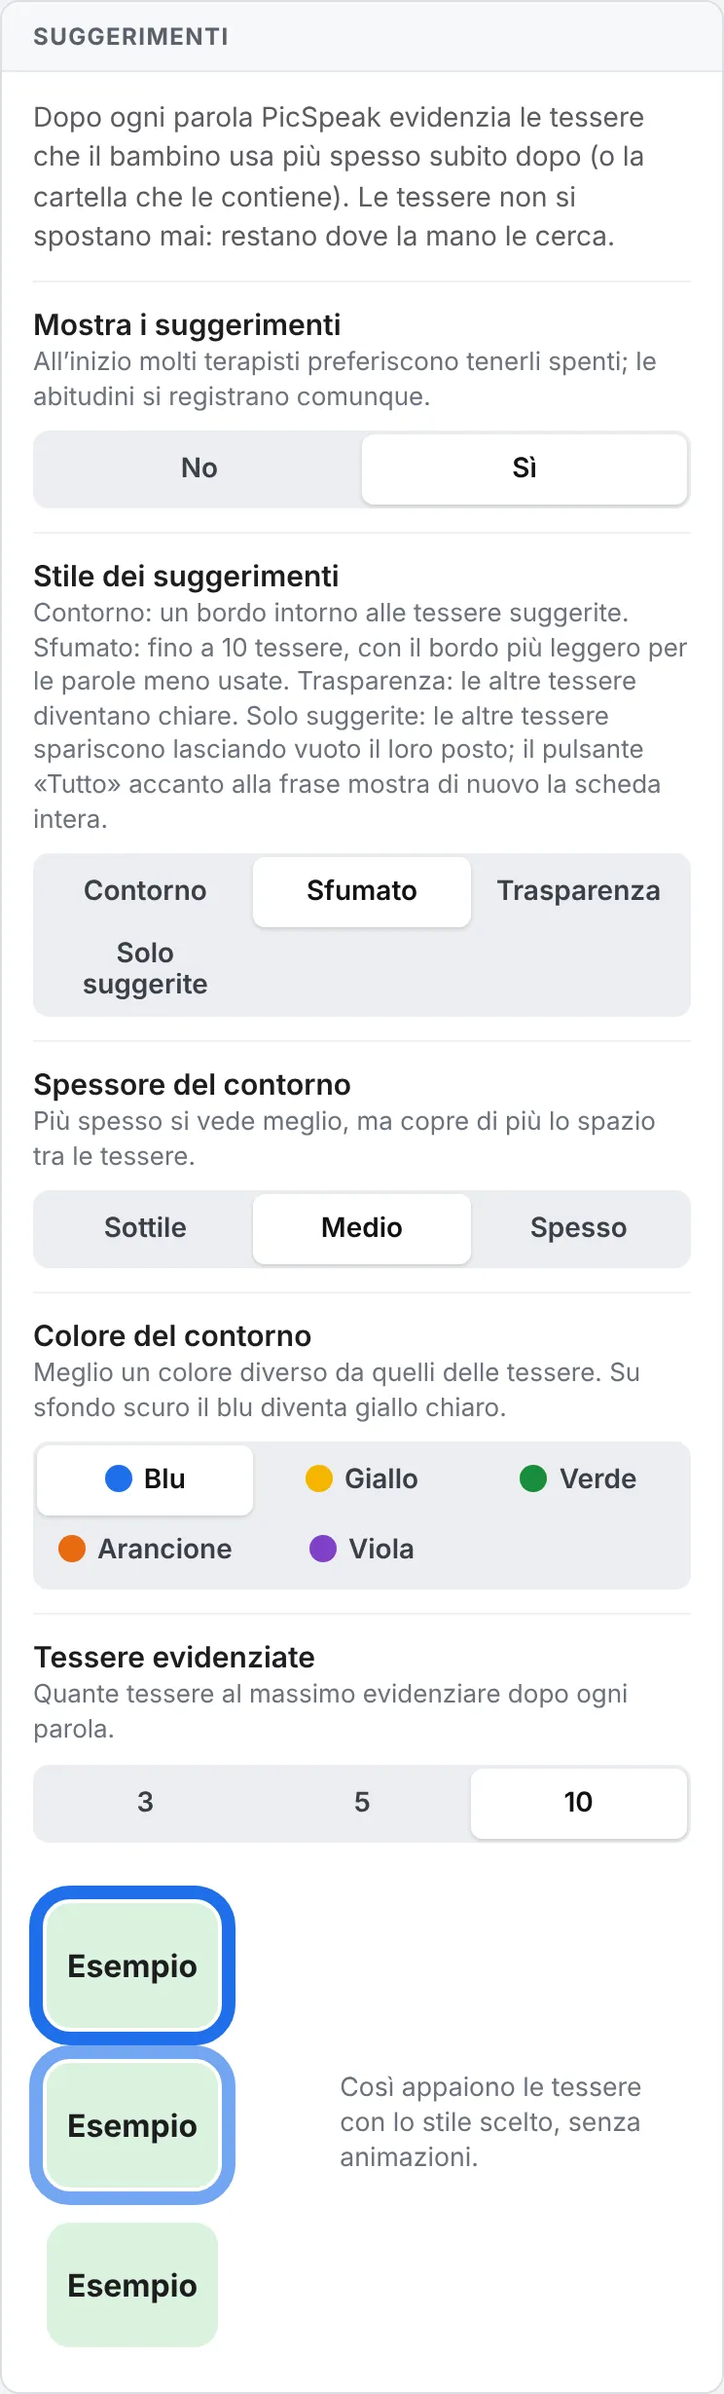
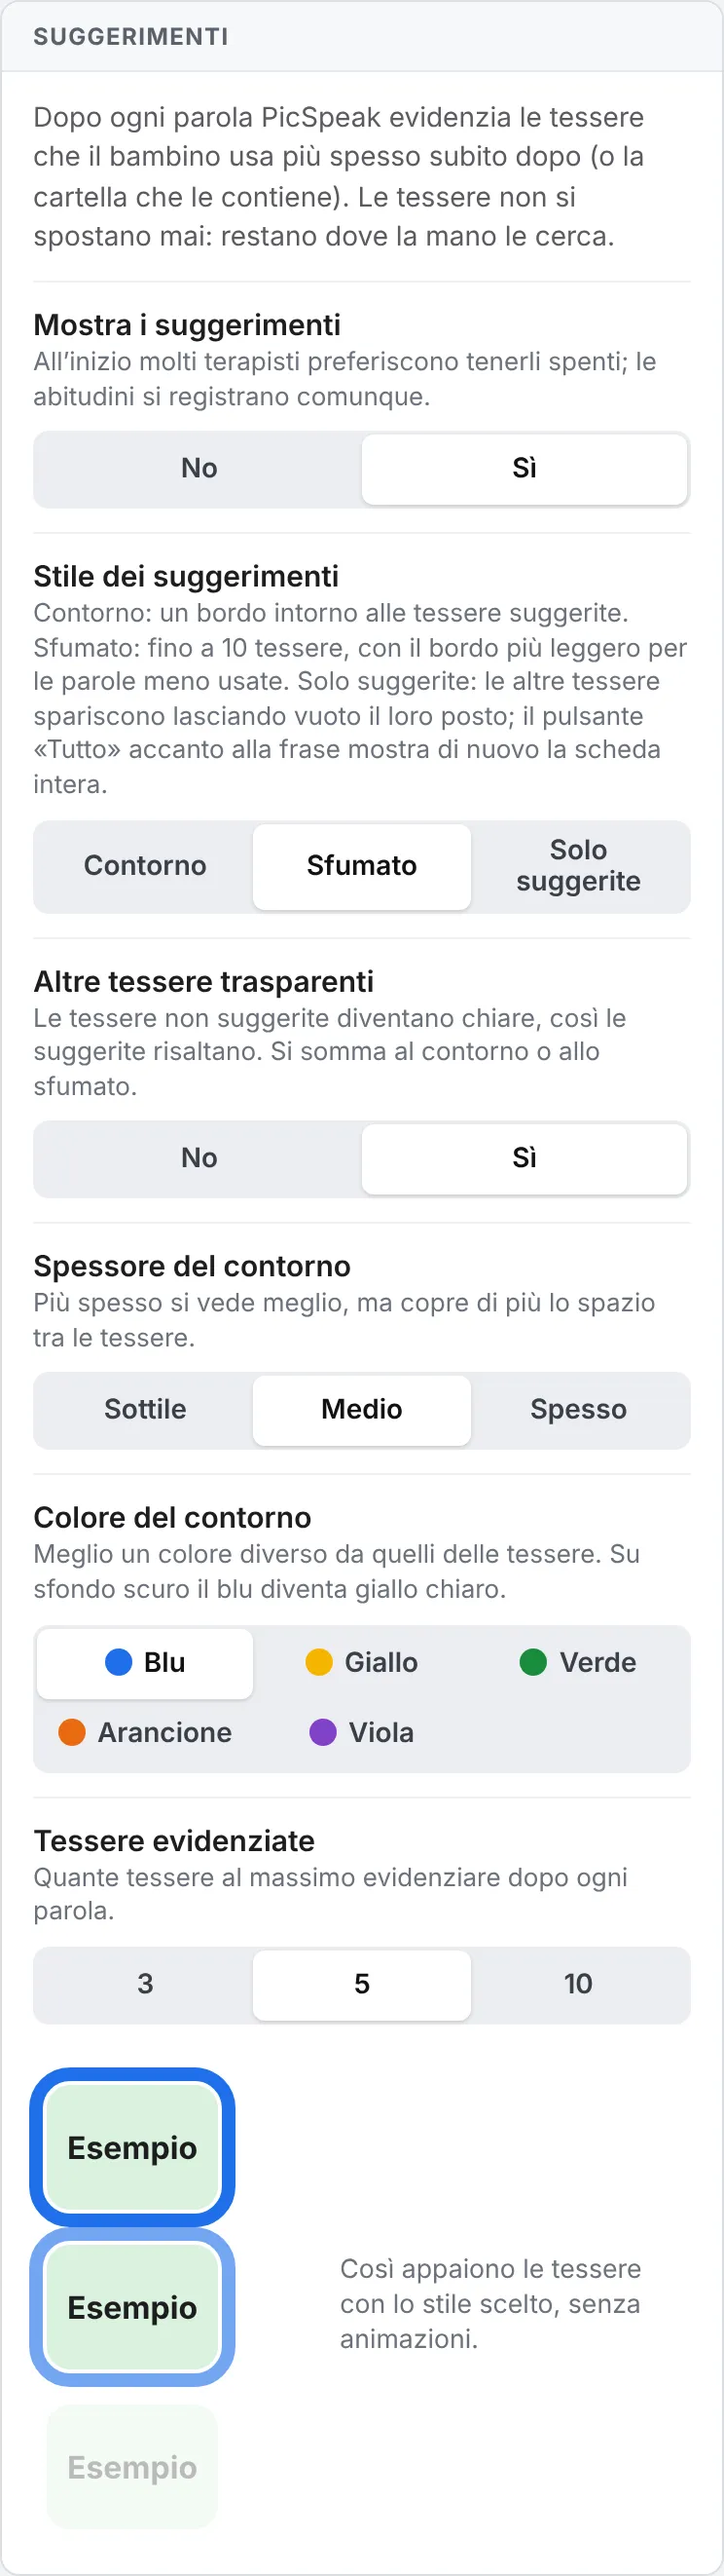
feat: trasparenza delle altre tessere combinabile con contorno e sfumato

diff --git a/guida.html b/guida.html
@@ -589,6 +589,8 @@
       <ol class="steps">
         <li>Mettete <strong>Mostra i suggerimenti</strong> su <strong>Sì</strong> (all’inizio è spento).</li>
         <li>In <strong>Stile dei suggerimenti</strong> scegliete come mostrarli (vedi sotto).</li>
+        <li>Con <strong>Altre tessere trasparenti</strong> su <strong>Sì</strong> le tessere non suggerite diventano chiare:
+          si può aggiungere al contorno o allo sfumato, e gli effetti si sommano.</li>
         <li>In <strong>Spessore del contorno</strong> e <strong>Colore del contorno</strong> regolate il bordo: più spesso
           si vede meglio; scegliete un colore diverso da quelli delle tessere.</li>
         <li>In <strong>Tessere evidenziate</strong> scegliete quante: da 1 a 3 con il contorno semplice, 3, 5 o 10 con gli
@@ -597,7 +599,7 @@
           una sequenza è stata usata almeno un paio di volte di recente.</li>
       </ol>
       <figure class="shot shot-narrow">
-        <img src="guida/impostazioni-previsione.webp" width="744" height="2458" alt="La sezione Suggerimenti: Mostra i suggerimenti, Stile dei suggerimenti (Contorno, Sfumato, Trasparenza, Solo suggerite), spessore e colore del contorno, numero di tessere e tre tessere di esempio con il bordo sempre più leggero." loading="lazy">
+        <img src="guida/impostazioni-previsione.webp" width="744" height="2644" alt="La sezione Suggerimenti: Mostra i suggerimenti, Stile dei suggerimenti (Contorno, Sfumato, Solo suggerite), Altre tessere trasparenti, spessore e colore del contorno, numero di tessere e tre tessere di esempio con il bordo sempre più leggero." loading="lazy">
       </figure>
       <table class="map">
         <caption>Gli stili dei suggerimenti</caption>
@@ -605,14 +607,20 @@
           <tr><th scope="row">Contorno</th><td>un bordo intorno alle tessere suggerite (da 1 a 3).</td></tr>
           <tr><th scope="row">Sfumato</th><td>fino a 10 tessere: il bordo è più deciso per le parole usate più spesso e
             più leggero per le altre, così disturba meno.</td></tr>
-          <tr><th scope="row">Trasparenza</th><td>le tessere suggerite hanno il bordo, tutte le altre diventano chiare
-            ma restano al loro posto e si possono toccare.</td></tr>
           <tr><th scope="row">Solo suggerite</th><td>si vedono solo le tessere suggerite; le altre spariscono ma lasciano
             vuoto il loro posto, quindi nessuna tessera si sposta né cambia misura. Il pulsante <strong>Tutto</strong>
             accanto alla frase mostra di nuovo la scheda intera fino alla parola successiva. Se non ci sono suggerimenti
             abbastanza sicuri, la scheda resta intera.</td></tr>
         </tbody>
       </table>
+      <p>Con <strong>Altre tessere trasparenti</strong> le tessere non suggerite diventano chiare ma restano al loro posto
+        e si possono toccare. Insieme allo <strong>Sfumato</strong> le parole più probabili risaltano di più e le altre
+        restano comunque a portata di mano.</p>
+      <figure class="shot">
+        <img src="guida/sfumato-trasparenza.webp" width="1180" height="820" alt="Sfumato con altre tessere trasparenti: dopo «io voglio» Mangiare, Bere e Giocare hanno il bordo, più deciso per Mangiare; le altre tessere sono chiare." loading="lazy">
+        <figcaption>«Sfumato» con <strong>Altre tessere trasparenti</strong>: il bordo è più deciso per la parola più
+          probabile e le tessere non suggerite sono chiare.</figcaption>
+      </figure>
       <figure class="shot">
         <img src="guida/solo-suggerite.webp" width="1180" height="820" alt="Stile Solo suggerite: dopo «io voglio» restano visibili solo Mangiare, Bere e Giocare, al loro solito posto; in alto a destra il pulsante Tutto." loading="lazy">
         <figcaption>«Solo suggerite»: dopo «io voglio» restano <strong>Mangiare</strong>, <strong>Bere</strong> e

diff --git a/js/i18n.js b/js/i18n.js
@@ -405,8 +405,9 @@
       optSuggestCount: 'Tessere evidenziate', optSuggestCountHelp: 'Quante tessere al massimo evidenziare dopo ogni parola.',
       val1: '1', val2: '2', val3: '3', val5: '5', val10: '10',
       optSuggestStyle: 'Stile dei suggerimenti',
-      optSuggestStyleHelp: 'Contorno: un bordo intorno alle tessere suggerite. Sfumato: fino a 10 tessere, con il bordo più leggero per le parole meno usate. Trasparenza: le altre tessere diventano chiare. Solo suggerite: le altre tessere spariscono lasciando vuoto il loro posto; il pulsante «Tutto» accanto alla frase mostra di nuovo la scheda intera.',
-      styleOutline: 'Contorno', styleGraded: 'Sfumato', styleFade: 'Trasparenza', styleOnly: 'Solo suggerite',
+      optSuggestStyleHelp: 'Contorno: un bordo intorno alle tessere suggerite. Sfumato: fino a 10 tessere, con il bordo più leggero per le parole meno usate. Solo suggerite: le altre tessere spariscono lasciando vuoto il loro posto; il pulsante «Tutto» accanto alla frase mostra di nuovo la scheda intera.',
+      styleOutline: 'Contorno', styleGraded: 'Sfumato', styleOnly: 'Solo suggerite',
+      optSuggestDim: 'Altre tessere trasparenti', optSuggestDimHelp: 'Le tessere non suggerite diventano chiare, così le suggerite risaltano. Si somma al contorno o allo sfumato.',
       showAllTiles: 'Mostra tutte le tessere', showAllShort: 'Tutto',
       optSuggestWidth: 'Spessore del contorno', optSuggestWidthHelp: 'Più spesso si vede meglio, ma copre di più lo spazio tra le tessere.',
       widthThin: 'Sottile', widthMedium: 'Medio', widthThick: 'Spesso',
@@ -933,8 +934,9 @@
       optSuggestCount: 'Highlighted tiles', optSuggestCountHelp: 'How many tiles at most to highlight after each word.',
       val1: '1', val2: '2', val3: '3', val5: '5', val10: '10',
       optSuggestStyle: 'Suggestion style',
-      optSuggestStyleHelp: 'Outline: a border around suggested tiles. Graded: up to 10 tiles, with a lighter border for less used words. Transparency: the other tiles become pale. Suggested only: the other tiles disappear leaving their place empty; the “All” button next to the sentence shows the whole board again.',
-      styleOutline: 'Outline', styleGraded: 'Graded', styleFade: 'Transparency', styleOnly: 'Suggested only',
+      optSuggestStyleHelp: 'Outline: a border around suggested tiles. Graded: up to 10 tiles, with a lighter border for less used words. Suggested only: the other tiles disappear leaving their place empty; the “All” button next to the sentence shows the whole board again.',
+      styleOutline: 'Outline', styleGraded: 'Graded', styleOnly: 'Suggested only',
+      optSuggestDim: 'Other tiles transparent', optSuggestDimHelp: 'Tiles that are not suggested become pale, so the suggested ones stand out. Adds to the outline or graded style.',
       showAllTiles: 'Show all tiles', showAllShort: 'All',
       optSuggestWidth: 'Outline thickness', optSuggestWidthHelp: 'Thicker is easier to see but covers more of the space between tiles.',
       widthThin: 'Thin', widthMedium: 'Medium', widthThick: 'Thick',

diff --git a/js/app.js b/js/app.js
@@ -282,8 +282,9 @@
 
   /*
    * Stili: «outline» contorno; «graded» contorno sempre più tenue per le parole meno frequenti;
-   * «fade» contorno e tessere non suggerite trasparenti; «only» si vedono solo le suggerite (le altre lasciano
-   * vuoto il loro posto, così nessuna tessera si sposta) con il pulsante «Mostra tutto» per tornare alla scheda intera.
+   * «only» si vedono solo le suggerite (le altre lasciano vuoto il loro posto, così nessuna tessera si sposta)
+   * con il pulsante «Mostra tutto» per tornare alla scheda intera.
+   * L'interruttore «dim» (contorno o sfumato) rende trasparenti le tessere non suggerite: gli effetti si sommano.
    */
   function applySuggestions() {
     el.grid.querySelectorAll('.symbol-cell').forEach((node) => {
@@ -299,7 +300,7 @@
     const prevItem = state.sentence[state.sentence.length - 1] || null;
     const list = predict.candidates(prevItem);
     if (!list.length) return;
-    const { style } = predict.settings;
+    const { style, dim } = predict.settings;
     // Il contorno semplice resta al massimo a 3 tessere; gli altri stili arrivano fino a 10
     const max = style === 'outline' ? Math.min(predict.settings.count, 3) : predict.settings.count;
     const visible = data.orderedCells(page).filter((c) => c.kind !== 'empty');
@@ -319,7 +320,7 @@
         node.classList.add('is-suggested');
         // Sfumato: 1 per la parola più frequente, fino a 0,25 per le meno frequenti
         if (style === 'graded') node.style.setProperty('--suggest-alpha', (0.25 + 0.75 * (score / top)).toFixed(2));
-      } else if (style === 'fade') {
+      } else if (dim && style !== 'only') {
         node.classList.add('is-suggest-faded');
       } else if (filter) {
         node.classList.add('is-suggest-hidden');

diff --git a/js/predict.js b/js/predict.js
@@ -24,13 +24,13 @@
   const DAY_MS = 24 * 60 * 60 * 1000;
   const MIN_SCORE = 1.5; // sotto questo valore (circa due usi recenti) non si suggerisce nulla
   const SETTINGS_KEY = 'prediction';
-  const DEFAULTS = { collect: true, suggest: false, count: 2, style: 'outline', width: 'medium', color: 'blue' };
+  const DEFAULTS = { collect: true, suggest: false, count: 2, style: 'outline', dim: false, width: 'medium', color: 'blue' };
   // Spessore e colore del contorno dei suggerimenti
   const WIDTHS = ['thin', 'medium', 'thick'];
   const COLORS = ['blue', 'yellow', 'green', 'orange', 'purple'];
   // Stili dei suggerimenti: contorno, contorno sfumato secondo la frequenza, trasparenza delle altre tessere,
   // solo le tessere suggerite (le altre lasciano vuoto il loro posto)
-  const STYLES = ['outline', 'graded', 'fade', 'only'];
+  const STYLES = ['outline', 'graded', 'only'];
   const COUNTS = [1, 2, 3, 5, 10];
   // File CSV delle abitudini: limiti per l'importazione
   const CSV_MAX_BYTES = 2 * 1024 * 1024;
@@ -72,7 +72,10 @@
     settings.collect = settings.collect !== false;
     settings.suggest = settings.suggest === true;
     settings.count = COUNTS.includes(settings.count) ? settings.count : DEFAULTS.count;
+    // Vecchio stile «fade» (trasparenza da sola): ora è contorno + interruttore «altre tessere trasparenti»
+    if (settings.style === 'fade') { settings.style = 'outline'; settings.dim = true; }
     settings.style = STYLES.includes(settings.style) ? settings.style : DEFAULTS.style;
+    settings.dim = settings.dim === true;
     settings.width = WIDTHS.includes(settings.width) ? settings.width : DEFAULTS.width;
     settings.color = COLORS.includes(settings.color) ? settings.color : DEFAULTS.color;
     applyLook();

diff --git a/js/settings-boards.js b/js/settings-boards.js
@@ -488,7 +488,7 @@
 
   // ---------- Categoria «Previsione» ----------
 
-  const STYLE_KEYS = { outline: 'styleOutline', graded: 'styleGraded', fade: 'styleFade', only: 'styleOnly' };
+  const STYLE_KEYS = { outline: 'styleOutline', graded: 'styleGraded', only: 'styleOnly' };
 
   async function changeSuggest(changes) {
     await predict.setSettings(changes);
@@ -512,6 +512,13 @@
           count: style === 'outline' ? Math.min(s.count, 3) : Math.max(s.count, 3),
         }),
       )));
+      // Trasparenza delle altre tessere: si combina con contorno e sfumato (con «solo suggerite» non serve)
+      if (s.style !== 'only') {
+        wrap.append(ui.settingRow('optSuggestDim', 'optSuggestDimHelp', ui.segmented(
+          [['off', 'valNo'], ['on', 'valYes']], s.dim ? 'on' : 'off',
+          (value) => changeSuggest({ dim: value === 'on' }),
+        )));
+      }
       const widthKeys = { thin: 'widthThin', medium: 'widthMedium', thick: 'widthThick' };
       wrap.append(ui.settingRow('optSuggestWidth', 'optSuggestWidthHelp', ui.segmented(
         predict.WIDTHS.map((w) => [w, widthKeys[w]]), s.width, (width) => changeSuggest({ width }),
@@ -536,7 +543,7 @@
       if (strength !== null) {
         tile.classList.add('is-suggested');
         if (style === 'graded') tile.style.setProperty('--suggest-alpha', String(0.25 + 0.75 * strength));
-      } else if (style === 'fade') tile.classList.add('is-suggest-faded');
+      } else if (s.dim && style !== 'only') tile.classList.add('is-suggest-faded');
       else if (style === 'only') tile.classList.add('is-suggest-hidden');
       row.append(tile);
     });

diff --git a/sw.js b/sw.js
@@ -3,7 +3,7 @@
  * Strategia "prima la rete": online si riceve sempre l'ultima versione,
  * offline si usa la copia salvata. Cambiare CACHE_VERSION quando si aggiungono file.
  */
-const CACHE_VERSION = 'picspeak-v26';
+const CACHE_VERSION = 'picspeak-v27';
 // Pacchetti di simboli scaricati dall'adulto (Mulberry, OpenMoji) e indici delle fonti online (Twemoji):
 // cache separate, mai cancellate dagli aggiornamenti
 const PACK_CACHE_PREFIX = 'picspeak-pack-';
@@ -34,6 +34,7 @@ const APP_FILES = [
   'guida/pin.webp',
   'guida/previsione.webp',
   'guida/solo-suggerite.webp',
+  'guida/sfumato-trasparenza.webp',
   'guida/pulsanti-rapidi.webp',
   'guida/schede-pronte.webp',
   'guida/schermo.webp',
